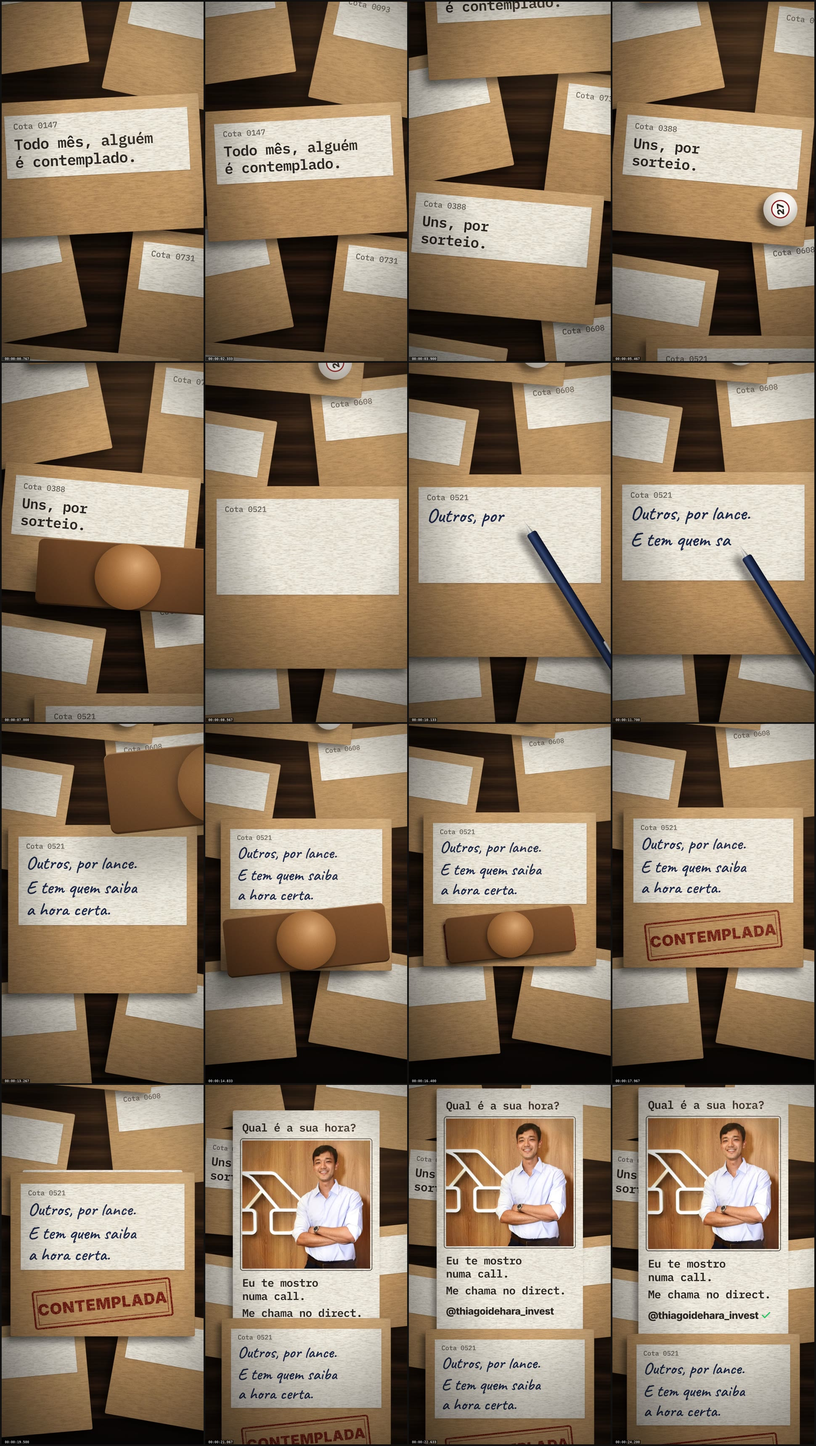
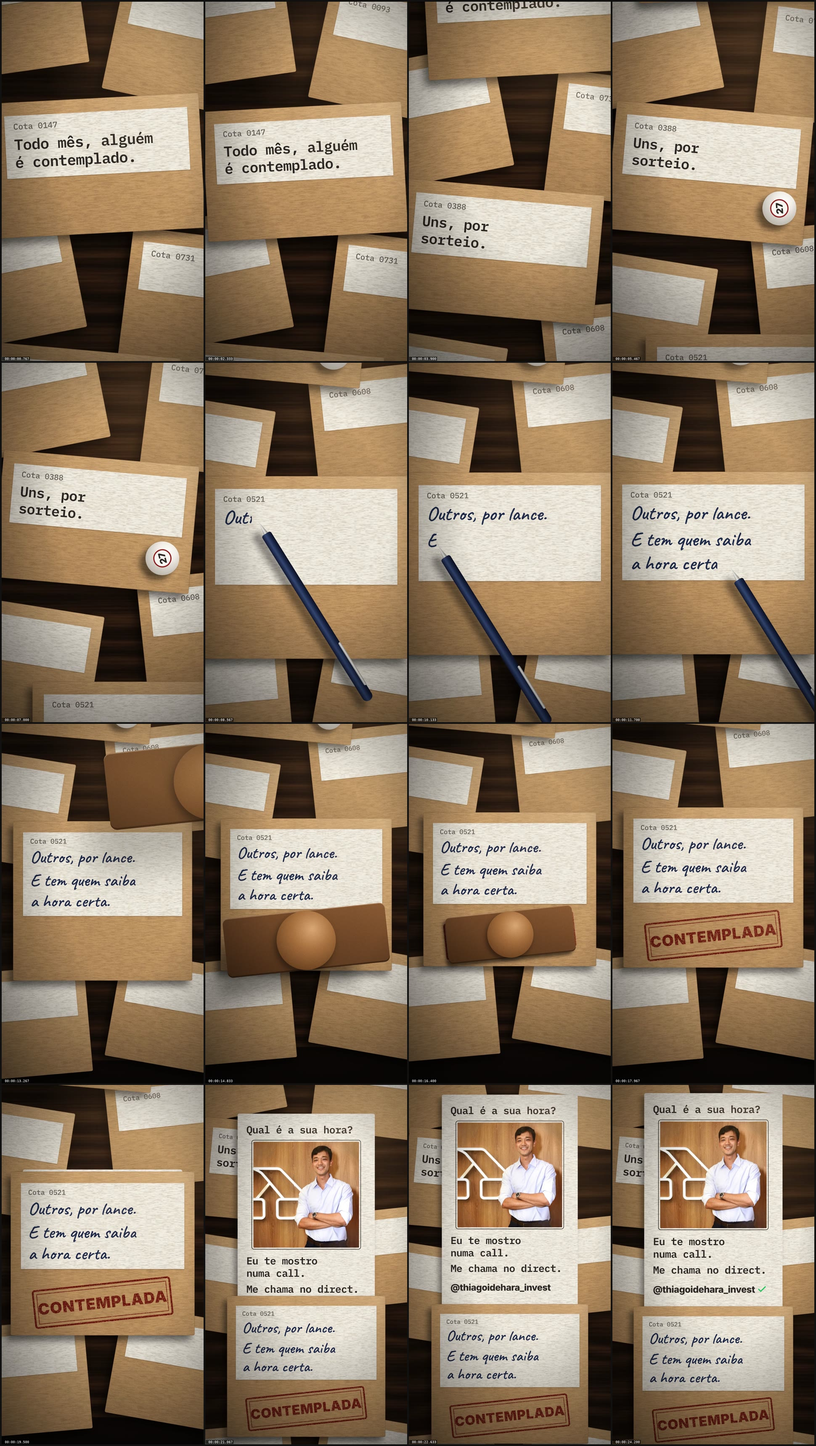
ThiagoLance v2: notes and look report
Claude-Session: https://claude.ai/code/session_012fgXwAcNofrdUAsijsnJFT

diff --git a/projects/thiago-carta/NOTE.md b/projects/thiago-carta/NOTE.md
@@ -1,5 +1,11 @@
 # NOTE: "A hora do lance" (25 s)
 
+## Versão 2
+- **Carimbo:** não passa mais pelo envelope do sorteio. O sorteio também contempla, então a desistência do carimbo sugeria algo falso. Agora ele aparece uma vez só, no lance.
+- **Caneta:** entra durante o movimento da câmera, e a etiqueta nunca fica vazia e parada.
+- **Final:** mais aberto e com o cartão mais curto, para o CONTEMPLADA ficar inteiro no quadro.
+- **Portões:** G0, G2 e G3 PASS (hold final de 1,40 s, no limite). −14,0 LUFS, pico em −1,5 dBTP.
+
 **Arquivos:** `renders/thiago-lance-instagram.mp4` (CRF 23, ~22 MB) e `renders/thiago-lance.mp4` (master, CRF 18). O código está em `remotion-video/src/ThiagoLance/` e o som em `scripts/thiago_lance_sound.py`.
 
 ## A ideia
